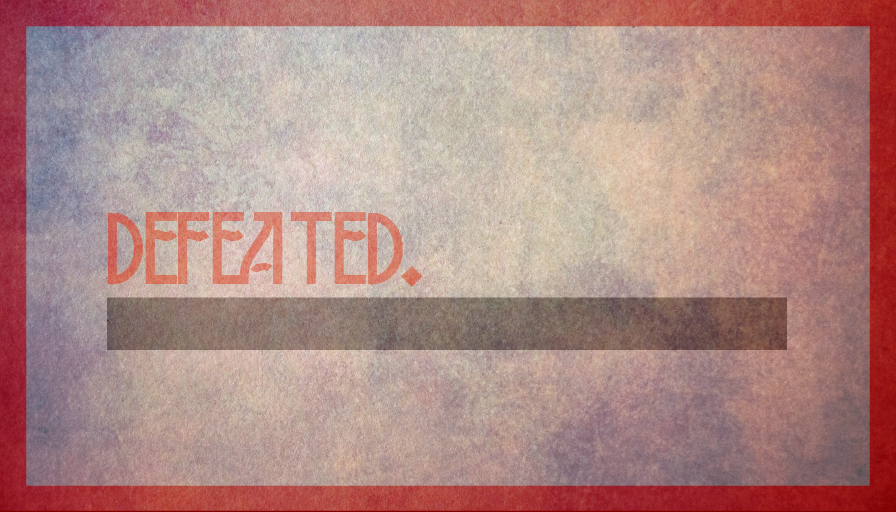
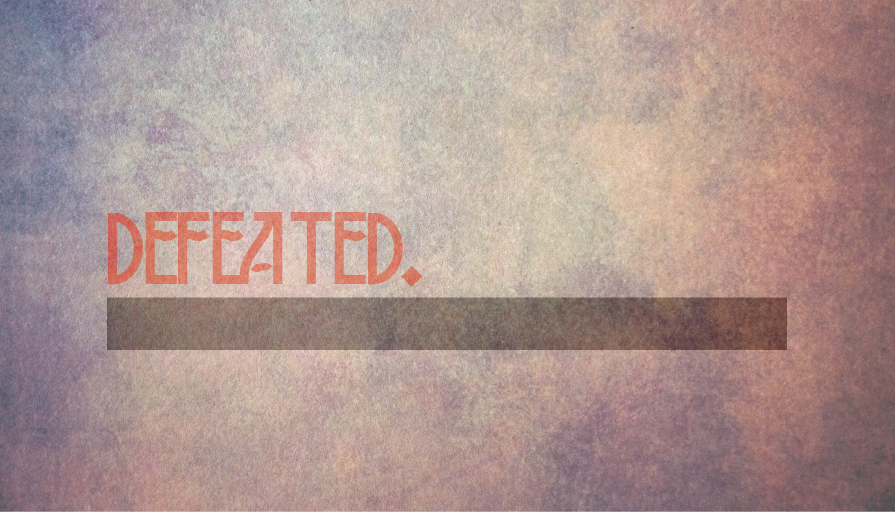
added assets, changed drawinggs

Changed region(s): [[0.0, 0.0, 1.0, 1.0], [0.1562, 0.25, 0.1875, 0.2812]]

diff --git a/cityoflight/core/src/edu/cornell/gdiac/cityoflight/GameController.java b/cityoflight/core/src/edu/cornell/gdiac/cityoflight/GameController.java
@@ -95,6 +95,8 @@ public class GameController implements Screen, ContactListener {
 	/** The text to show on a winning/losing screen */
 	private boolean hasChosenText = false;
 	private String chosentext;
+	private boolean hasChoseScreen = false;
+	private String chosenscreenkey;
 
 	TextureRegion lose_screen, win_screen;
 
@@ -404,6 +406,7 @@ public class GameController implements Screen, ContactListener {
 		win_transition_hasAnimated = false;
 		win_transition_second_part = false;
 		hasChosenText = false;
+		hasChoseScreen = false;
 	}
 
 	/**
@@ -807,7 +810,12 @@ public class GameController implements Screen, ContactListener {
 	}
 
 	public void drawLoseScreen(){
-		TextureRegion lose_screen = JsonAssetManager.getInstance().getEntry("lose_screen", TextureRegion.class);
+		if (!hasChoseScreen) {
+			int random = (int) (Math.random() * 3 + 1);
+			chosenscreenkey = "lose_screen0" + Integer.toString(random);
+			hasChoseScreen = true;
+		}
+		TextureRegion lose_screen = JsonAssetManager.getInstance().getEntry(chosenscreenkey, TextureRegion.class);
 		canvas.begin();
 		canvas.draw(lose_screen,0,0);
 		canvas.end();
@@ -837,7 +845,12 @@ public class GameController implements Screen, ContactListener {
 	}
 
 	public void drawWinScreen(){
-		TextureRegion win_screen = JsonAssetManager.getInstance().getEntry("win_screen", TextureRegion.class);
+		if (! hasChoseScreen) {
+			int random = (int) (Math.random() * 3 + 1);
+			chosenscreenkey = "win_screen0" + Integer.toString(random);
+			hasChoseScreen = true;
+		}
+		TextureRegion win_screen = JsonAssetManager.getInstance().getEntry(chosenscreenkey, TextureRegion.class);
 		canvas.begin();
 		canvas.draw(win_screen,0,0);
 		canvas.end();
